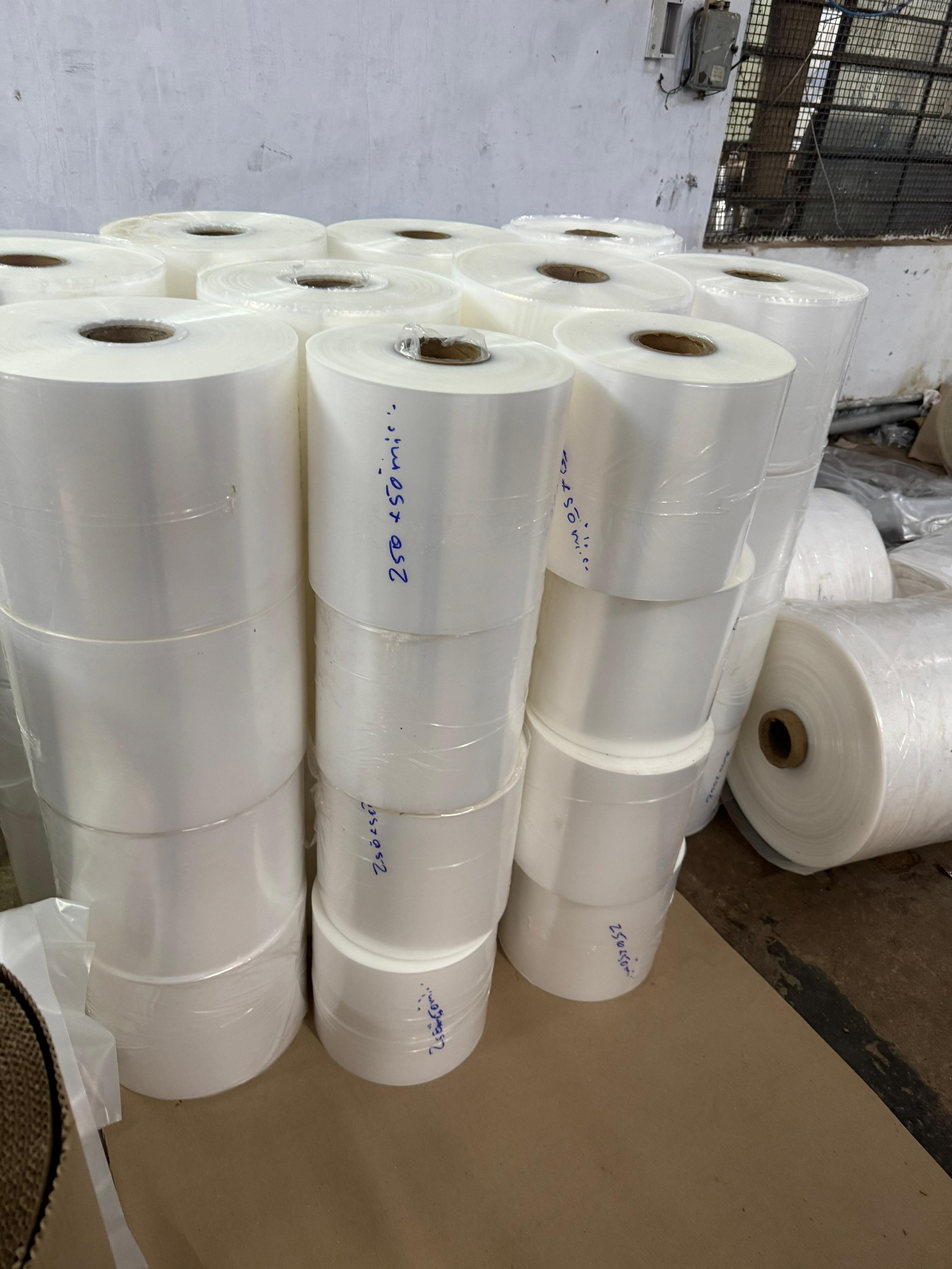
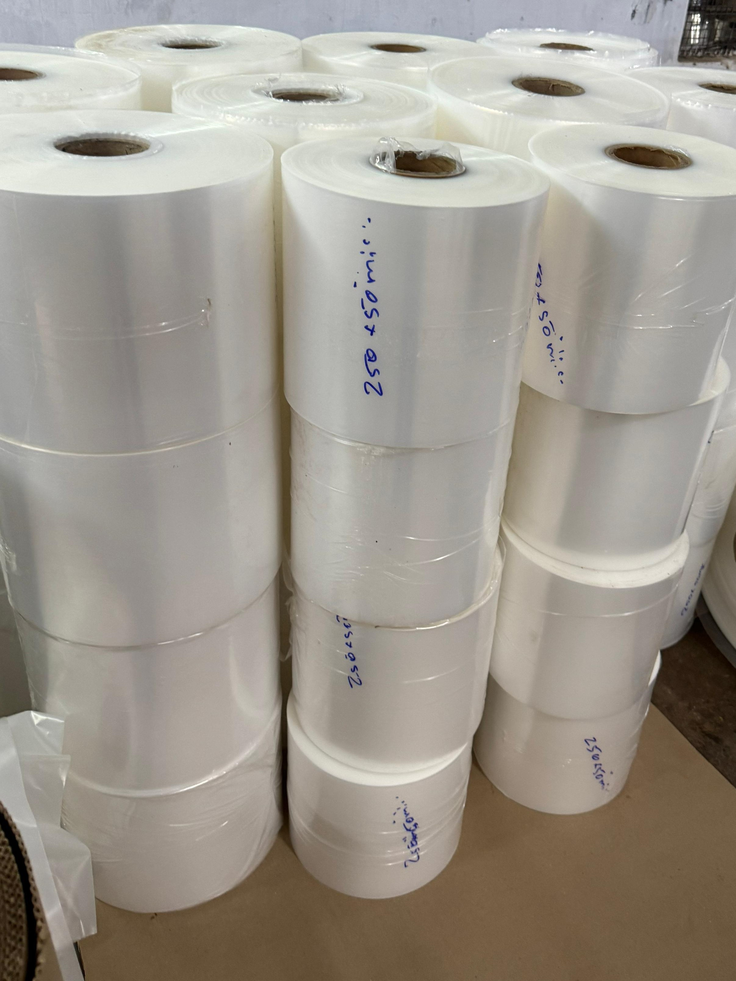
done

diff --git a/contact.html b/contact.html
@@ -196,17 +196,48 @@
                         </div>
                         <form id="contact-form">
                           <h4>Name</h4>
-                          <input type="text" name="name">
+                          <input type="text" name="name" id="name">
                           <h4>Email</h4>
-                          <input type="text" name="email">
+                          <input type="text" name="phone" id="email">
+                          <h4>Phone</h4>
+                          <input type="text" name="email" id="phone">
                           <h4>Message</h4>
-                          <textarea></textarea>
-                          <button>Send</button>
+                          <textarea id="message"></textarea>
+                          <button id="submit" type="submit">Send</button>
                         </form>
                       </div>
                 </div>
             </div>
         </div>
+        <script type="text/javascript" src="https://cdn.jsdelivr.net/npm/@emailjs/browser@4/dist/email.min.js"></script>
+    <!-- <script > -->
+    <script type="text/javascript">
+        (function(){
+            emailjs.init("f2m7AmZWjyOyAB7A0"); // Replace 'your_user_id' with your actual User ID from EmailJS
+        })();
+
+        document.getElementById('contact-form').addEventListener('submit', function(event) {
+            event.preventDefault();
+
+            // Get form values
+            var formData = {
+                name: document.getElementById('name').value,
+                email: document.getElementById('email').value,
+                phone: document.getElementById('phone').value,
+                message: document.getElementById('message').value
+            };
+
+            // Send email
+            emailjs.send("service_m3l0chl", "template_ub07ch5", formData) // Replace 'service_id' and 'template_id' with your actual Service ID and Template ID from EmailJS
+                .then(function(response) {
+                    console.log('Success!', response.status, response.text);
+                    alert('Your message has been sent successfully!');
+                }, function(error) {
+                    console.error('Failed...', error);
+                    alert('There was an error sending your message. Please try again later.');
+                });
+        });
+    </script>
         <div class="add">
             <div class="subadd">
                 

diff --git a/index.html b/index.html
@@ -187,7 +187,7 @@
           <img src="./assets/photoroom/bread cover 1.jpg" alt="" />
         </div>
         <div class="c2">
-          <h2>Ld Bags</h2>
+          <h2>LD Bags</h2>
           <p></p>
           <p id="te">
             LD bags, made from Low-Density Polyethylene (LDPE), are flexible,
@@ -203,7 +203,7 @@
         </div>
         <div class="c2">
           <h2>HM Bags</h2>
-          <p></p>
+          <p></p> 
           <p id="te">
             HM bags, made from High Molecular High-Density Polyethylene
             (HM-HDPE), are strong, durable, and resistant to punctures and
@@ -214,7 +214,7 @@
       </div>
       <div class="card">
         <div class="c1">
-          <img src="./assets/img/ldr-removebg-preview.png" alt="" />
+          <img src="./assets/infra/ld roll2.jpg" alt="" />
         </div>
         <div class="c2">
           <h2>LD Roll</h2>
@@ -258,7 +258,7 @@
       </div>
       <div class="card">
         <div class="c1">
-          <img src="./assets/img/bopp_bags-removebg-preview.png" alt="" />
+          <img src="./assets/img/boppbag.png" alt="" />
         </div>
         <div class="c2">
           <h2>BOPP Bags</h2>
@@ -272,7 +272,7 @@
       </div>
       <div class="card">
         <div class="c1">
-          <img src="./assets/img/pvc-transparent-pouch-removebg-preview.png" alt="" />
+          <img src="./assets/img/pvc.webp" alt="" />
         </div>
         <div class="c2">
           <h2>PVC Pouches</h2>

diff --git a/product.html b/product.html
@@ -293,7 +293,7 @@
                     </div>
                 </div>
                 <div class="subp23">
-                    <img src="./assets/product/bopp bags.jpg" alt="">
+                    <img src="./assets/img/boppbag2.png" alt="">
                 </div>
             </div>
         </div>
@@ -319,7 +319,7 @@
                     </div>
                 </div>
                 <div class="subp23">
-                    <img src="./assets/img/p7.jpg" alt="">
+                    <img src="./assets/img/pvcpouches.png" alt="">
                 </div>
             </div>
         </div>
